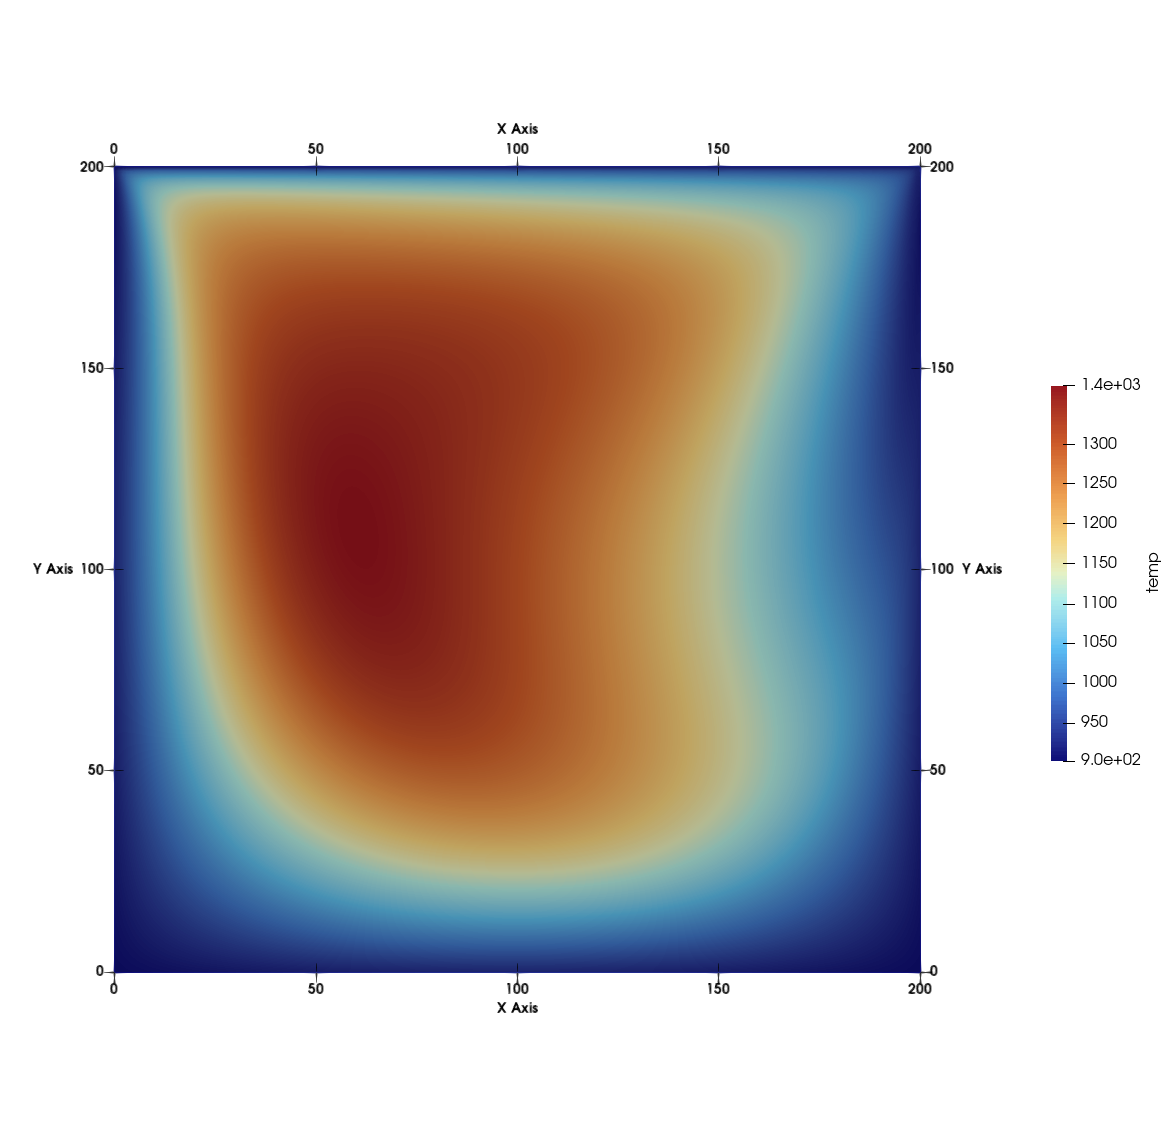
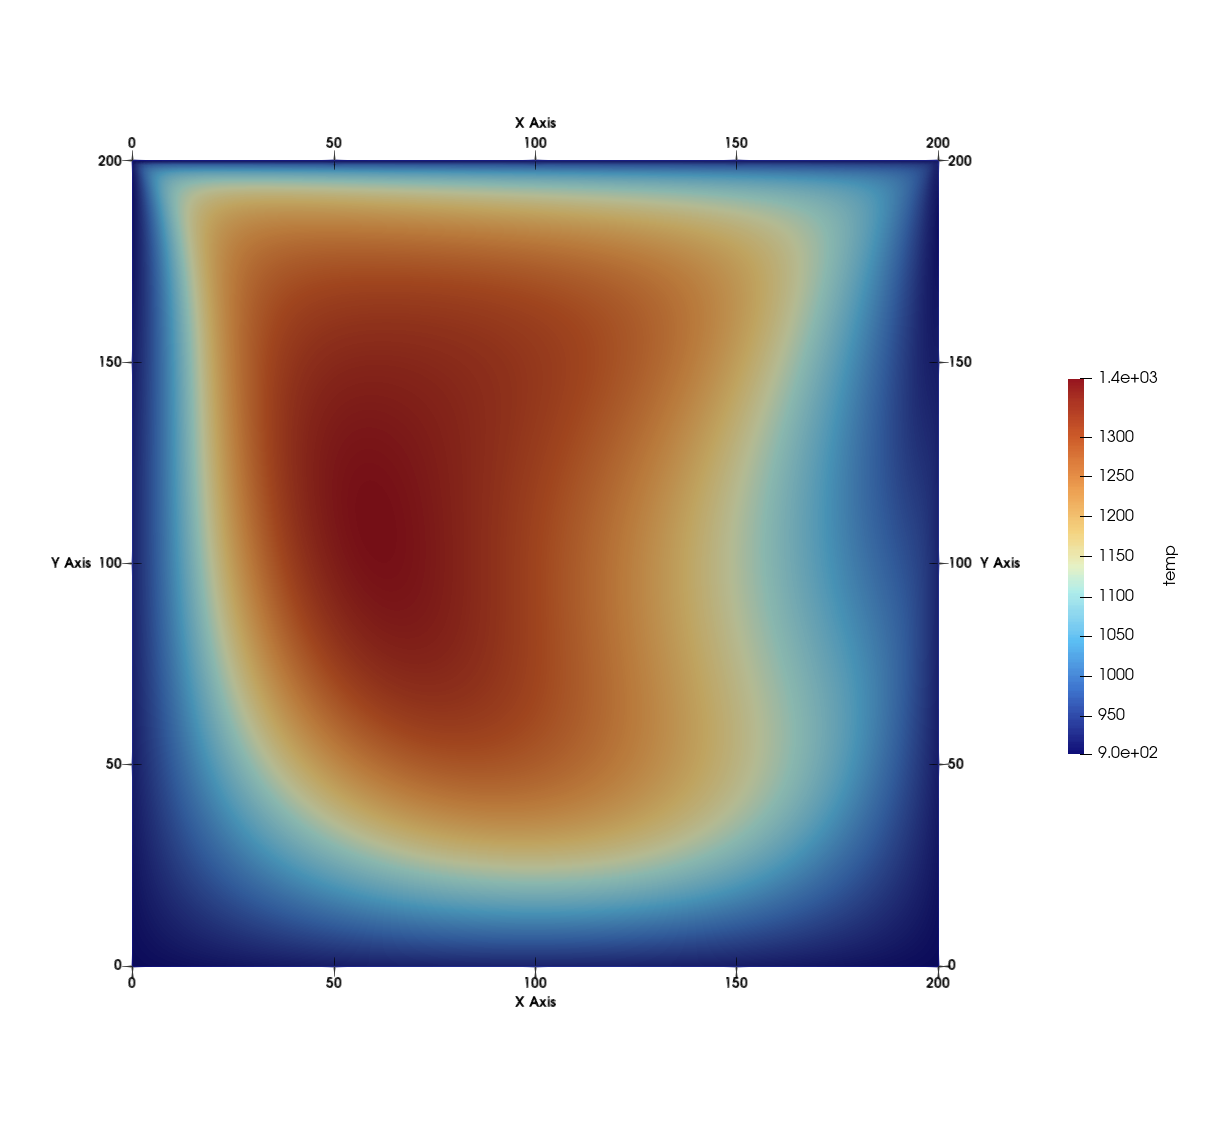
decoupling temp and vel in 0.3, generating new figure and modifying tutorial

Changed region(s): [[0.0307, 0.0922, 1.0, 0.8911], [0.9207, 0.3073, 0.9514, 0.338]]

diff --git a/doc/content/getting_started/cnrs.md b/doc/content/getting_started/cnrs.md
@@ -12,7 +12,8 @@ fuel, power feedback, buoyancy, and full-coupled driven-flow); and phase 2 model
 
 !media media/cnrs_geo.png
        id=cnrs-geo
-       caption=CNRS benchmark geometry, a 2 m by 2 m insulated cavity surrounded by vacuum. AA' and BB' are lines where observables are collected for comparison [Tiberga et al., (2020)](https://doi.org/10.1016/j.anucene.2020.107428).
+       caption=CNRS benchmark geometry, a 2 m by 2 m insulated cavity surrounded by vacuum. AA' and BB' are lines where
+       observables are collected for comparison [Tiberga et al., (2020)](https://doi.org/10.1016/j.anucene.2020.107428).
        style=width:35%;text-align:center;margin-left:auto;margin-right:auto;
 
 More detailed discussion of each phase and published results of Moltres simulations of the benchmark can be found in
@@ -76,12 +77,12 @@ is shown in Figure 3, while the group 1 precursor concentration is shown in Figu
 !col-end!
 !row-end!
 
-+Step 0.3: Temperature+ (`temperature.i`). The lid-driven flow and the energy equation are solved
-together while the neutron fluxes are frozen at the Step 0.2 solution. The fluxes are loaded with a
-`SolutionUserObject` and `SolutionAux` objects, and `FissionHeatSourceAux` converts them into a
-volumetric heat source normalized to $10^7$ W. Heat is removed by `INSADEnergyAmbientConvection`,
-a uniform sink proportional to the difference between the local temperature and 900 K, which
-represents the heat exchanger of the benchmark. The temperature field is shown in Figure 5.
++Step 0.3: Temperature+ (`temperature.i`). The energy equation is solved alone while the velocity
+field and fluxes are loaded in with `SolutionUserObject` and `SolutionAux` objects. `FissionHeatSourceAux`
+converts the flux into a volumetric heat source normalized to $10^7$ W. Heat is removed by
+`INSADEnergyAmbientConvection`, a uniform sink proportional to the difference between the local
+temperature and 900 K, which represents the heat exchanger of the benchmark. The temperature
+field is shown in Figure 5.
 
 !media media/cnrs_03.png
        id=cnrs-03-temp
